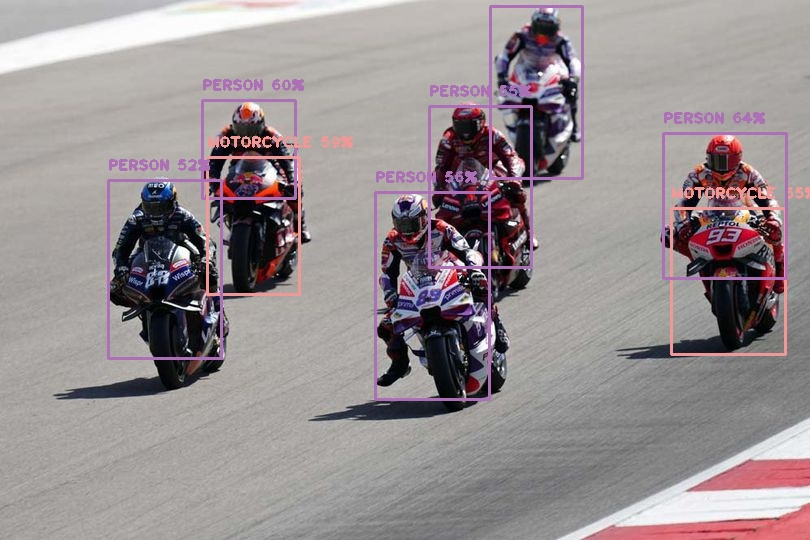
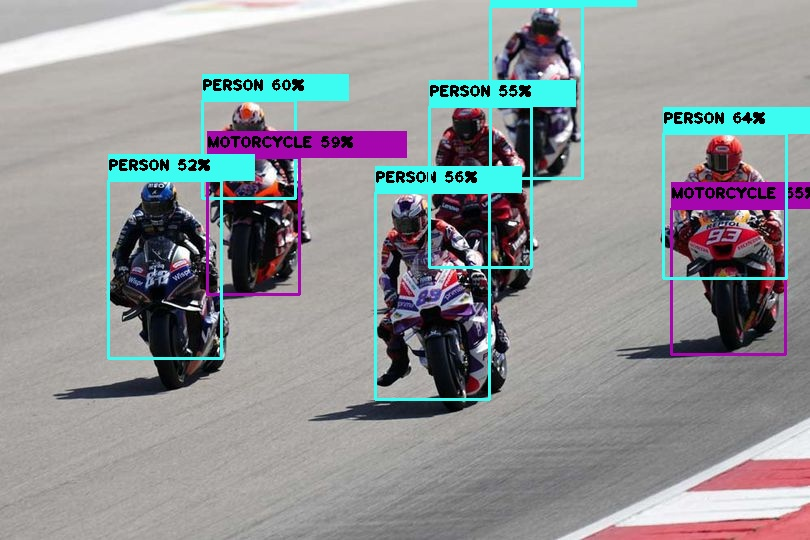
modified file

Changed region(s): [[0.1235, 0.0, 0.8025, 0.7704], [0.8025, 0.1778, 1.0, 0.6815]]

diff --git a/detection.py b/detection.py
@@ -54,7 +54,7 @@ class Detector:
      # Set threshold of bounding box
      bbox_index = tf.image.non_max_suppression(bboxs, scores=class_scores, max_output_size=50, iou_threshold=threshold, score_threshold=threshold)
      
-     # Iterate throughout bbox_index
+     #Iterate throughout bbox_index
      if len(bbox_index) != 0:
       for i in bbox_index:
          bbox = tuple(bboxs[i].tolist())
@@ -65,13 +65,17 @@ class Detector:
          class_color = self.color_list[class_index]
          display_text = f"{class_label} {class_confidence}%"
          
-         # Bounding box scale
+         #Bounding box scale
          ymin, xmin, ymax, xmax = bbox
          ymin, xmin, ymax, xmax = (ymin * imgH, xmin * imgW, ymax * imgH, xmax * imgW)
          ymin, xmin, ymax, xmax = int(ymin), int(xmin), int(ymax), int(xmax)
-
+         
+         #box
          cv.rectangle(img_tensor, (xmin, ymin), (xmax, ymax), color=class_color, thickness=2)
-         cv.putText(img_tensor, display_text, (xmin, ymin - 10), cv.FONT_HERSHEY_PLAIN, 1, class_color, 2)
+         #text box
+         (text_width, text_height), baseline = cv.getTextSize(display_text, cv.FONT_HERSHEY_SIMPLEX, 0.7, 2)
+         cv.rectangle(img_tensor, (xmin, ymin - text_height - 10), (xmin + text_width, ymin), class_color, thickness=-1)
+         cv.putText(img_tensor, display_text, (xmin, ymin - 10), cv.FONT_HERSHEY_PLAIN, 1, (0, 0, 0), 2)
 
       return img_tensor
 

diff --git a/main.py b/main.py
@@ -6,7 +6,7 @@ from detection import Detector
 # You can get the pre-trained model on https://github.com/tensorflow/models/blob/master/research/object_detection/g3doc/tf2_detection_zoo.md
 MODEL_URL = "http://download.tensorflow.org/models/object_detection/tf2/20200711/ssd_mobilenet_v1_fpn_640x640_coco17_tpu-8.tar.gz"
 
-IMG_PATH = "pictures/people_happy.jpg"  #customizable
+IMG_PATH = "pictures/motogp_dataset.jpg"  #customizable
 VID_PATH = "videos/traffic_highways.mp4"    ##customizable
 CLASS_PATH = "object_class_names.txt"   # From COCO dataset
 
